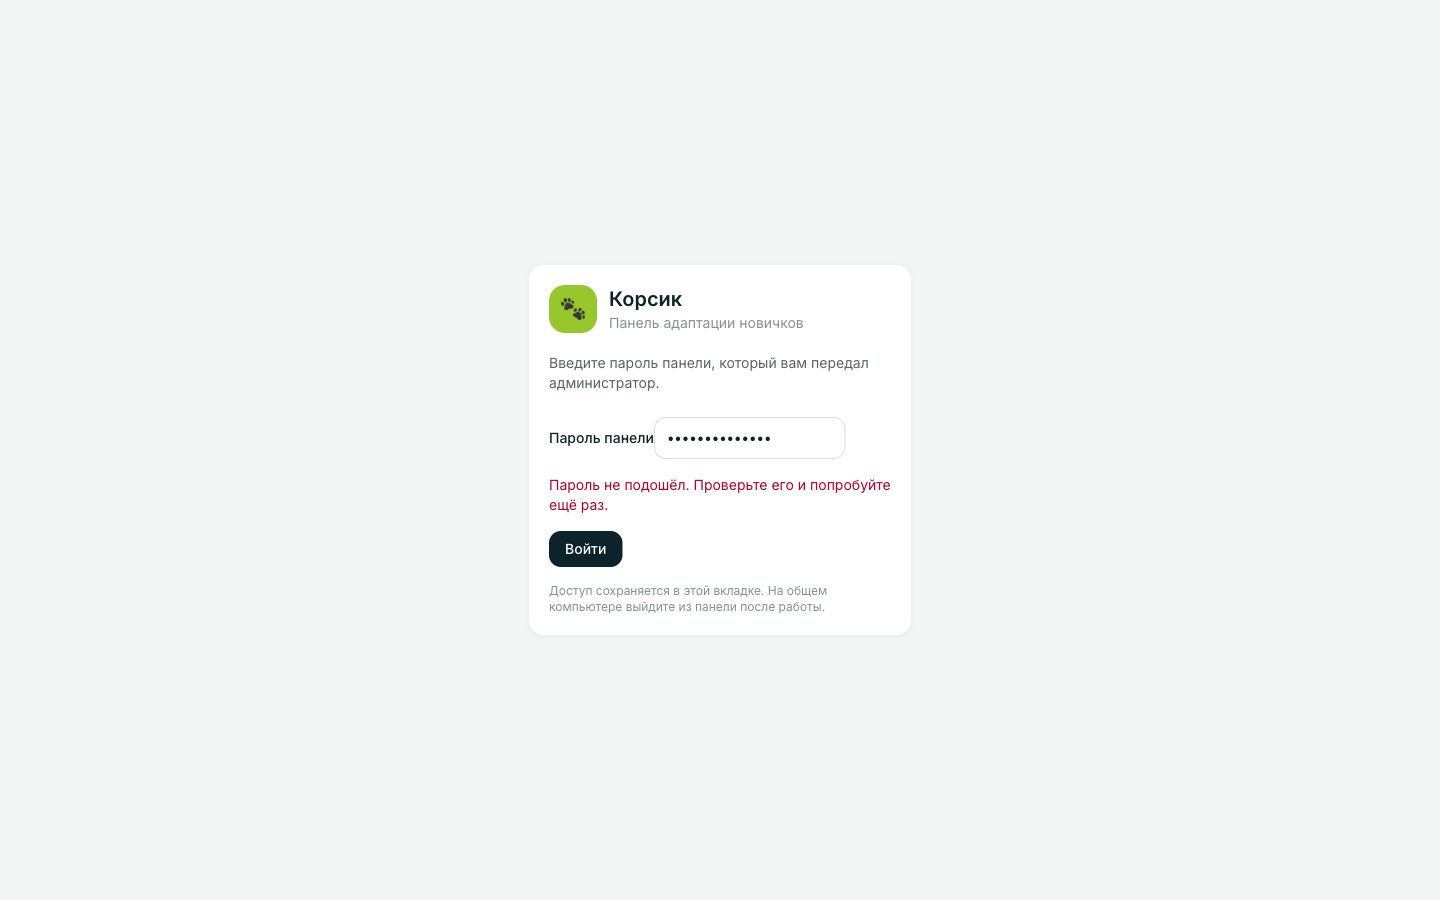
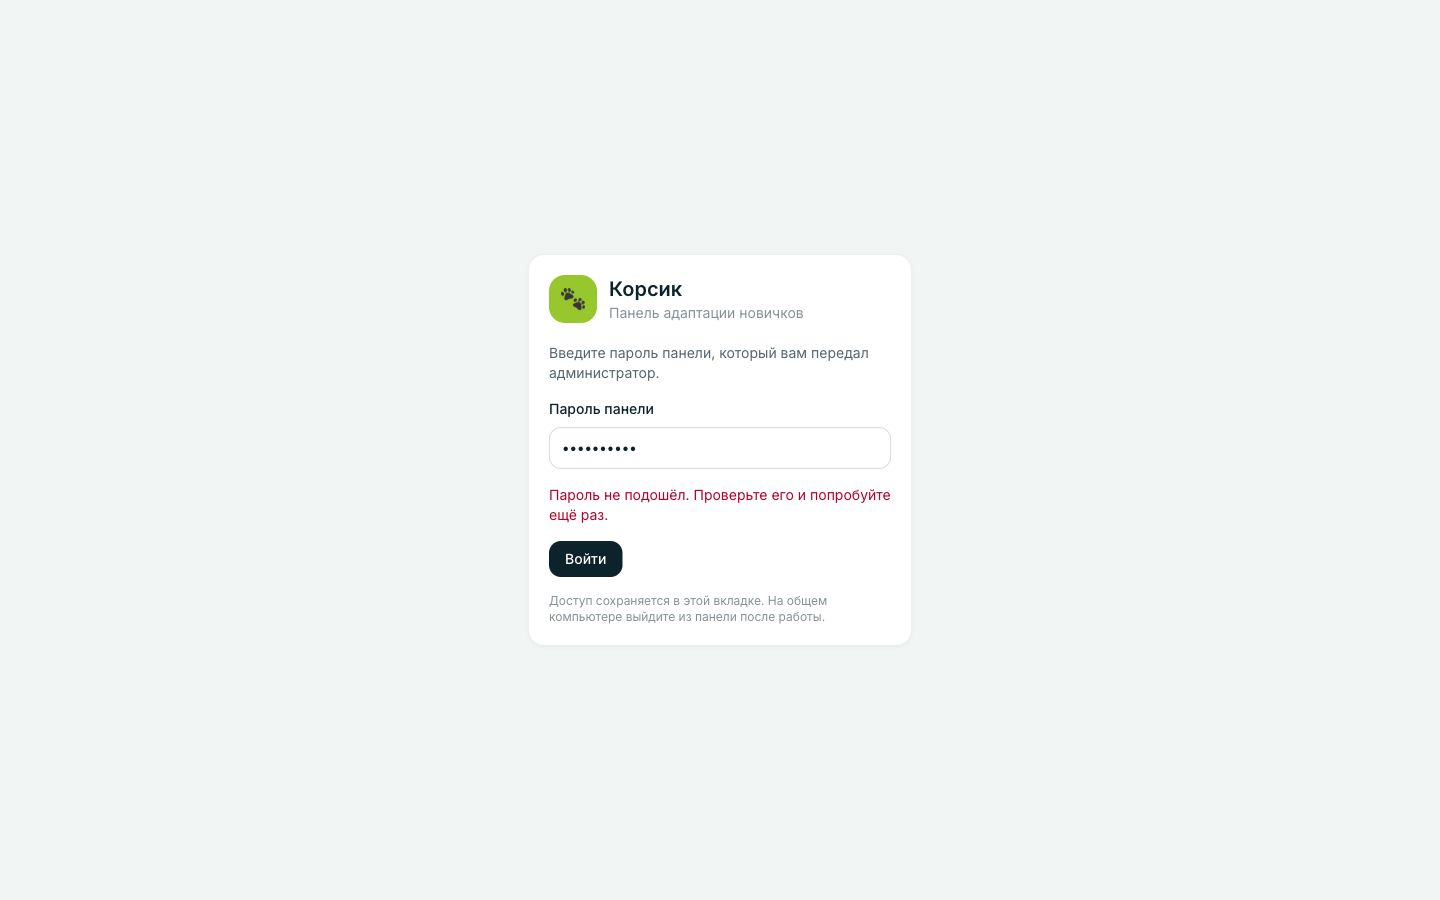
Разместить поле пароля под подписью на всю ширину формы

Changed region(s): [[0.375, 0.28, 0.625, 0.7156]]

diff --git a/web/src/components/AccessGate.tsx b/web/src/components/AccessGate.tsx
@@ -108,7 +108,7 @@ export default function AccessGate({
                 disabled={busy}
                 value={password}
                 onChange={(event) => setPassword(event.target.value)}
-                className={`${inputCls} mt-2`}
+                className={`${inputCls} mt-2 block w-full`}
               />
             </label>
             {error && (
